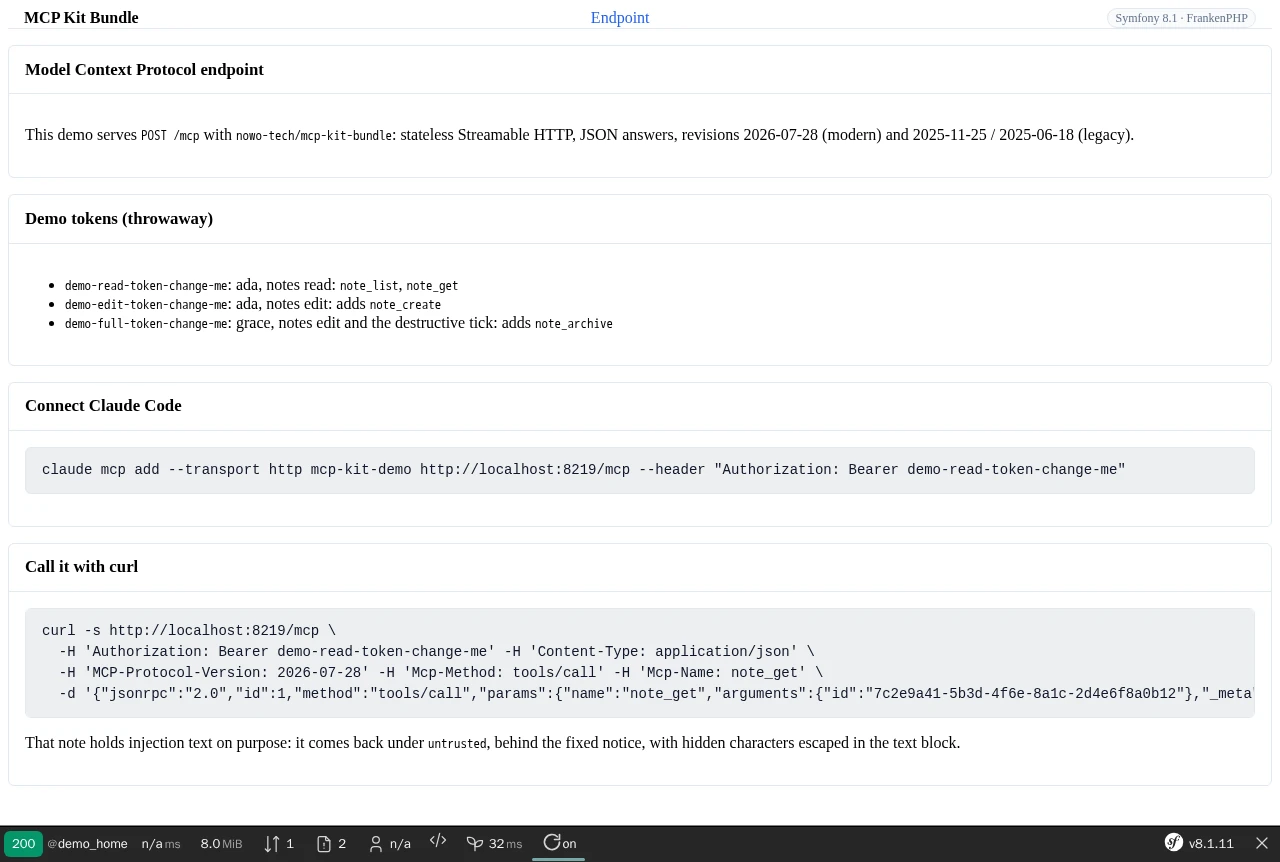
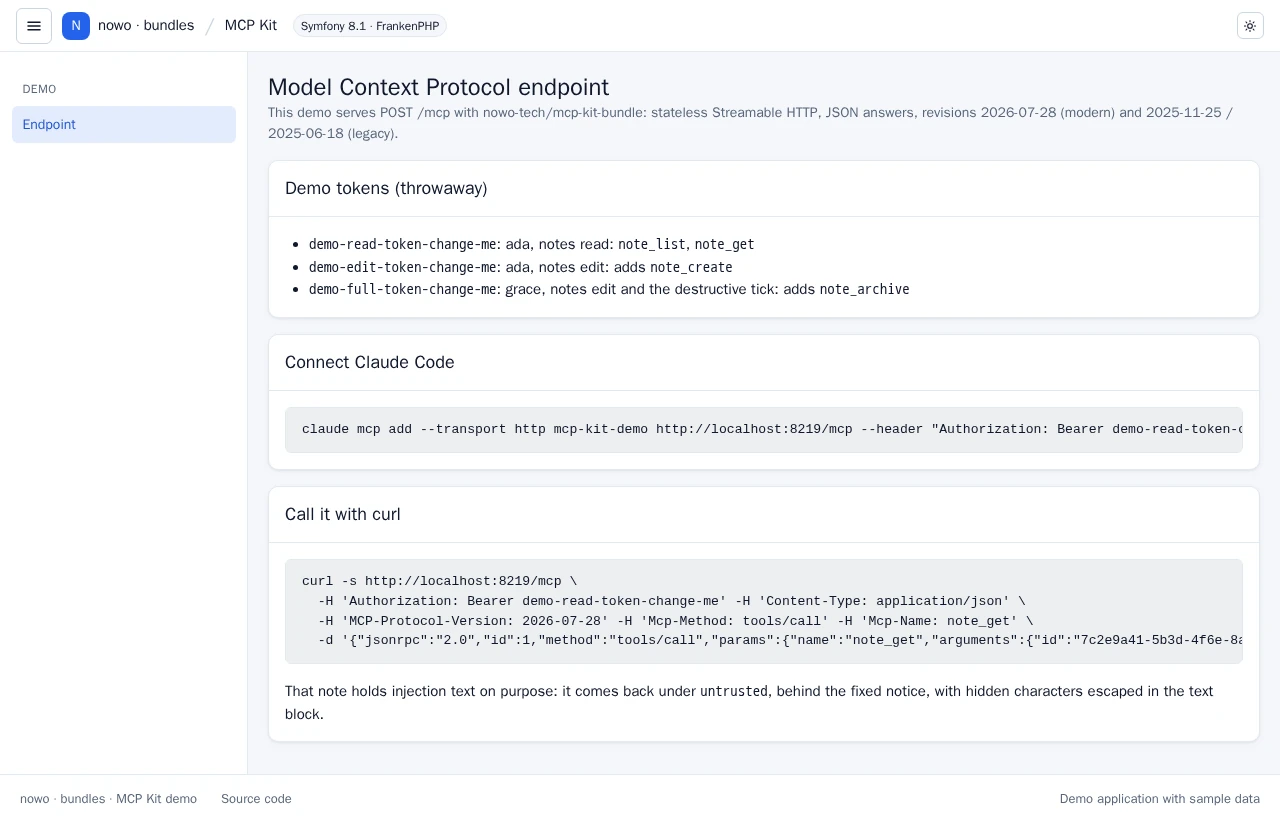
chore(demo): run the demo in UiKit's demo platform shell (#17)

diff --git a/demo/symfony8/e2e/tests/demo-platform.spec.ts b/demo/symfony8/e2e/tests/demo-platform.spec.ts
@@ -1,0 +1,184 @@
+import { test, expect, type Page } from '@playwright/test';
+import AxeBuilder from '@axe-core/playwright';
+
+/**
+ * UiKit demo platform shell (REQ-DEMO-014): layout grammar, demo styles, host theme tokens, framework classes, the
+ * closed phone drawer, 44 px touch targets and input borders on every demo page, plus axe (wcag2a / 2aa / 21a / 21aa,
+ * serious + critical = 0) in light and dark, desktop and phone, and the keyboard drawer pass.
+ */
+type Theme = 'light' | 'dark';
+type PageEntry = string | ((page: Page) => Promise<string>);
+
+async function prepare(_page: Page): Promise<void> {}
+
+async function setTheme(page: Page, theme: Theme): Promise<void> {
+  await page.evaluate((t) => {
+    document.documentElement.setAttribute('data-theme', t);
+    document.documentElement.setAttribute('data-bs-theme', t);
+  }, theme);
+}
+
+async function axe(page: Page): Promise<string[]> {
+  const result = await new AxeBuilder({ page }).withTags(['wcag2a', 'wcag2aa', 'wcag21a', 'wcag21aa']).exclude('.sf-toolbar').analyze();
+  return result.violations
+    .filter((v) => v.impact === 'serious' || v.impact === 'critical')
+    .map((v) => `${v.id}: ${v.nodes.map((n) => n.target.join(' ')).join(', ')}`);
+}
+
+/** The demo layout + style rules (docs/USAGE.md "Demo platform shell"; same function as the rollout brief's spec): layout grammar,
+ * no demo styles / host tokens / framework classes, closed drawer inert, 44 px targets on coarse pointers, input borders 3:1. */
+/* eslint-disable */
+// prettier-ignore
+function demoPlatformRules(): string[] {
+  const issues = [];
+  const main = document.querySelector('#nowo-ui-content');
+  const shell = document.querySelector('[data-testid="demo-platform"]');
+  if (!main || !shell) return ['no-demo-platform-shell'];
+  const visible = (el) => !!(el.offsetWidth || el.offsetHeight || el.getClientRects().length);
+  const carded = (el) => el.closest('.nowo-ui-card, [data-nowo-ui-region="table"], [data-nowo-ui-region="form"], .nowo-ui-form-panel, dialog');
+  const skip = (el) => el.closest('dialog, [data-nowo-ui-region="filters"], .nowo-ui-filters, .nowo-ui-page-header');
+
+  // Layout grammar.
+  main.querySelectorAll('table').forEach((t) => { if (!carded(t)) issues.push('table-outside-card'); });
+  main.querySelectorAll('form').forEach((f) => {
+    if (f.querySelector('input:not([type="hidden"]), select, textarea') && !carded(f) && !skip(f) && !f.closest('table')) issues.push('form-outside-card');
+  });
+  const primaries = [...main.querySelectorAll('.nowo-ui-btn--primary')].filter((b) => visible(b) && !b.closest('table, dialog, [data-nowo-ui-region="filters"], .nowo-ui-filters, form'));
+  if (primaries.length > 1) issues.push(`primary-buttons:${primaries.length}`);
+  const header = main.querySelector('.nowo-ui-page-header');
+  const flashes = main.querySelector('.nowo-ui-flashes');
+  if (header && flashes && (flashes.compareDocumentPosition(header) & Node.DOCUMENT_POSITION_FOLLOWING)) issues.push('flashes-before-page-header');
+  if (document.documentElement.scrollWidth > document.documentElement.clientWidth + 1) issues.push('page-scrolls-horizontally');
+
+  // Styles: no demo styles, no host theme tokens, no CDN / foreign stylesheet, no framework classes inside the shell.
+  document.querySelectorAll('style').forEach((s) => {
+    if (s.matches('[data-nowo-ui-theme-tokens], [data-nowo-ui-appearance]')) { issues.push('host-theme-tokens'); return; }
+    if (!/sf-toolbar|sfwdt|sf-minitoolbar|sf-display/.test(s.textContent || '') && !s.closest('[id^="sfwdt"], .sf-toolbar')) issues.push('style-element');
+  });
+  document.querySelectorAll('link[rel="stylesheet"]').forEach((l) => {
+    const path = new URL(l.href, location.href).pathname;
+    if (!path.startsWith('/bundles/') && !path.startsWith('/_wdt/') && !path.startsWith('/_profiler/')) issues.push(`stylesheet:${path}`);
+  });
+  const framework = /^(acme-.*|nav-tabs|nav-link|nav-item|alert|alert-.*|form-check.*|form-control|form-select|form-label|btn|btn-.*|card|card-.*|badge|row|col|col-.*|table|table-.*)$/;
+  shell.querySelectorAll('[class]').forEach((el) => {
+    for (const c of el.classList) { if (framework.test(c)) { issues.push(`framework-class:${c}`); break; } }
+  });
+
+  // Drawer: below 901 px a closed drawer is inert and the burger says so.
+  const aside = shell.querySelector('[data-nowo-ui-aside]');
+  if (aside && window.innerWidth < 901) {
+    const open = shell.classList.contains('is-aside-open-mobile');
+    if (!open && !aside.hasAttribute('inert')) issues.push('drawer-not-inert');
+    shell.querySelectorAll('[data-nowo-ui-burger]').forEach((b) => {
+      if (visible(b) && b.getAttribute('aria-expanded') !== (open ? 'true' : 'false')) issues.push('burger-state');
+    });
+  }
+
+  // Touch: 44 px targets on coarse pointers (checkbox / radio 24 px, their label carries the 44 px row).
+  if (window.matchMedia('(pointer: coarse)').matches) {
+    const controls = [...shell.querySelectorAll('.nowo-ui-btn, button, summary, input:not([type="hidden"]), select, textarea, [role="tab"], .nowo-ui-aside__link, .nowo-ui-demo-platform__locale')]
+      .filter((el) => visible(el) && !el.closest('[inert], table, .ts-control'));
+    for (const el of controls) {
+      const r = el.getBoundingClientRect();
+      const small = el.matches('input[type="checkbox"], input[type="radio"]') ? r.height < 24 || r.width < 24 : r.height < 43.5;
+      if (small) { issues.push(`target-under-44px:${(el.className && String(el.className).split(' ')[0]) || el.tagName.toLowerCase()}`); }
+    }
+  }
+
+  // Inputs: boundary 3:1 or more against the surface behind them (WCAG 1.4.11).
+  const rgb = (c) => { const m = c.match(/[\d.]+/g); return m ? m.slice(0, 4).map(Number) : null; };
+  const lum = (c) => { const v = c.slice(0, 3).map((x) => { const s = x / 255; return s <= 0.03928 ? s / 12.92 : ((s + 0.055) / 1.055) ** 2.4; }); return 0.2126 * v[0] + 0.7152 * v[1] + 0.0722 * v[2]; };
+  const bgOf = (el) => { for (let n = el.parentElement; n; n = n.parentElement) { const c = rgb(getComputedStyle(n).backgroundColor); if (c && (c.length < 4 || c[3] > 0)) return c; } return [255, 255, 255]; };
+  shell.querySelectorAll('input:not([type="hidden"], [type="checkbox"], [type="radio"]), select, textarea').forEach((el) => {
+    if (!visible(el) || el.closest('[inert]')) return;
+    const border = rgb(getComputedStyle(el).borderTopColor);
+    if (!border) return;
+    const a = lum(border); const b = lum(bgOf(el));
+    if ((Math.max(a, b) + 0.05) / (Math.min(a, b) + 0.05) < 3) issues.push(`input-border-under-3:1:${el.id || el.name || el.tagName.toLowerCase()}`);
+  });
+
+  return [...new Set(issues)];
+}
+
+
+const PAGES: PageEntry[] = ["/"];
+
+const BUNDLE_OWNED: Array<{ path: RegExp; rule: RegExp }> = [];
+
+/** Findings on a bundle's own page are reported as bundle-owned (not patched in the demo): they are filtered here, by path and rule. */
+function demo(url: string, issues: string[]): string[] {
+  const path = new URL(url).pathname;
+  return issues.filter((issue) => !BUNDLE_OWNED.some((o) => o.path.test(path) && o.rule.test(issue)));
+}
+
+async function resolvePath(page: Page, entry: PageEntry): Promise<string> {
+  return typeof entry === 'function' ? entry(page) : entry;
+}
+
+test.describe('demo platform rules', () => {
+  // Device-emulating projects (phone / iphone ...) set their own context: the viewport blocks below do it explicitly.
+  test.beforeEach(async ({ page }, testInfo) => {
+    test.skip(/phone/i.test(testInfo.project.name), 'viewport blocks set their own context');
+    // The Symfony toolbar is dev chrome, never part of the rules or axe runs.
+    await page.addInitScript(() => {
+      document.addEventListener('DOMContentLoaded', () => {
+        const s = document.createElement('style');
+        s.textContent = '.sf-toolbar,.sf-minitoolbar,[id^="sfwdt"]{display:none!important}';
+        document.head.appendChild(s);
+      });
+    });
+  });
+
+  test('desktop 1440 px', async ({ page }) => {
+    await page.setViewportSize({ width: 1440, height: 900 });
+    await prepare(page);
+    for (const path of PAGES) {
+      await page.goto(await resolvePath(page, path));
+      expect(demo(page.url(), await page.evaluate(demoPlatformRules)), page.url()).toEqual([]);
+    }
+  });
+
+  test.describe('phone 390 px, touch', () => {
+    test.use({ viewport: { width: 390, height: 844 }, isMobile: true, hasTouch: true });
+
+    test('rules on every page', async ({ page }) => {
+      await prepare(page);
+      for (const path of PAGES) {
+        await page.goto(await resolvePath(page, path));
+        expect(demo(page.url(), await page.evaluate(demoPlatformRules)), page.url()).toEqual([]);
+      }
+    });
+
+    test('keyboard drawer pass', async ({ page }) => {
+      await prepare(page);
+      await page.goto(await resolvePath(page, PAGES[0]));
+      const aside = page.locator('[data-nowo-ui-aside]');
+      await expect(aside).toHaveAttribute('inert', '');
+      const burger = page.locator('[data-nowo-ui-burger]').first();
+      await expect(burger).toHaveAttribute('aria-expanded', 'false');
+      await burger.focus();
+      await page.keyboard.press('Enter');
+      await expect(page.getByTestId('demo-platform')).toHaveClass(/is-aside-open-mobile/);
+      await expect(page.locator('[data-nowo-ui-aside] :focus')).toHaveCount(1);
+      await expect(page.locator('.nowo-ui-main')).toHaveAttribute('inert', '');
+      await expect(page.locator('html')).toHaveClass(/nowo-ui-drawer-open/);
+      await page.keyboard.press('Escape');
+      await expect(burger).toBeFocused();
+      await expect(aside).toHaveAttribute('inert', '');
+    });
+  });
+
+  for (const theme of ['light', 'dark'] as Theme[]) {
+    for (const [name, width] of [['desktop', 1440], ['phone', 390]] as const) {
+      test(`axe clean: ${name}, ${theme}`, async ({ page }) => {
+        await page.setViewportSize({ width, height: 900 });
+        await prepare(page);
+        for (const path of PAGES) {
+          await page.goto(await resolvePath(page, path));
+          await setTheme(page, theme);
+          expect(demo(page.url(), await axe(page)), page.url()).toEqual([]);
+        }
+      });
+    }
+  }
+});

diff --git a/demo/symfony8/e2e/tests/screenshots.spec.ts b/demo/symfony8/e2e/tests/screenshots.spec.ts
@@ -3,7 +3,7 @@ import { mkdirSync } from 'node:fs';
 import { resolve } from 'node:path';
 
 /**
- * REQ-DEMO-013 — full demo frame: UiKit masthead + McpKit UI + Symfony WebProfiler toolbar.
+ * REQ-DEMO-013 — the demo platform shell with the McpKit page (no Symfony toolbar).
  * Playwright clips to the viewport, so the viewport is enlarged before capture.
  */
 const outDir = process.env.SCREENSHOT_DIR
@@ -22,13 +22,12 @@ async function boxOf(page: Page, selector: string): Promise<Box | null> {
 }
 
 async function clipDemoFrame(page: Page): Promise<Box> {
-  const masthead = await boxOf(page, '[data-testid="demo-masthead"]');
+  const masthead = await boxOf(page, '[data-testid="demo-platform"]');
   const main = await boxOf(page, 'main');
-  const profiler = (await boxOf(page, '.sf-toolbar')) ?? (await boxOf(page, '.sf-minitoolbar'));
   if (!masthead || !main) {
-    throw new Error('Missing demo masthead or main for the McpKit screenshot clip');
+    throw new Error('Missing demo platform shell or main for the McpKit screenshot clip');
   }
-  const boxes = [masthead, main, profiler].filter(Boolean) as Box[];
+  const boxes = [masthead, main].filter(Boolean) as Box[];
   const x = Math.min(...boxes.map((b) => b.x));
   const y = Math.min(...boxes.map((b) => b.y));
   const right = Math.max(...boxes.map((b) => b.x + b.width));
@@ -42,22 +41,18 @@ async function clipDemoFrame(page: Page): Promise<Box> {
   };
 }
 
-async function waitProfiler(page: Page) {
-  await page
-    .locator('.sf-toolbar .sf-toolbar-block, .sf-toolbar-status, .sf-minitoolbar')
-    .first()
-    .waitFor({ state: 'visible', timeout: 10000 })
-    .catch(() => {});
+/** The Symfony toolbar is not part of the demo platform: README screenshots never show it. */
+async function hideToolbar(page: Page) {
+  await page.addStyleTag({ content: '.sf-toolbar,.sf-minitoolbar,[id^="sfwdt"]{display:none!important}' });
 }
 
 async function capture(page: Page, file: string) {
   await page.waitForLoadState('networkidle', { timeout: 20000 }).catch(() => {});
   await page.evaluate(() => document.fonts.ready).catch(() => {});
-  await waitProfiler(page);
+  await hideToolbar(page);
   await page.setViewportSize({ width: 1280, height: 720 });
   const height = await page.evaluate(() => document.documentElement.scrollHeight);
   await page.setViewportSize({ width: 1280, height: Math.min(Math.max(height, 720), 1800) });
-  await waitProfiler(page);
   await page.screenshot({ path: resolve(outDir, file), clip: await clipDemoFrame(page) });
 }
 
@@ -69,7 +64,7 @@ test.describe('McpKit screenshots (full demo context)', () => {
   test('endpoint — client setup page with tokens and curl example', async ({ page }) => {
     await page.setViewportSize({ width: 1280, height: 1000 });
     await page.goto('/');
-    await expect(page.getByTestId('demo-masthead')).toBeVisible();
+    await expect(page.getByTestId('demo-platform')).toBeVisible();
     await expect(page.getByRole('heading', { name: 'Model Context Protocol endpoint' })).toBeVisible();
     await capture(page, 'endpoint.png');
   });

diff --git a/demo/symfony8/e2e/tests/demo.spec.ts b/demo/symfony8/e2e/tests/demo.spec.ts
@@ -7,7 +7,7 @@ test.describe('McpKit demo', () => {
     page.on('console', (m) => m.type() === 'error' && errors.push(m.text()));
     const response = await page.goto('/');
     expect(response?.status()).toBe(200);
-    await expect(page.getByTestId('demo-masthead')).toBeVisible();
+    await expect(page.getByTestId('demo-platform')).toBeVisible();
     await expect(page.getByRole('heading', { name: 'Demo tokens (throwaway)' })).toBeVisible();
     await expect(page.locator('code', { hasText: 'demo-read-token-change-me' }).first()).toBeVisible();
     expect(errors).toEqual([]);

diff --git a/docs/CHANGELOG.md b/docs/CHANGELOG.md
@@ -7,6 +7,7 @@ All notable changes to this project are documented here. The format follows
 
 ### Changed
 
+- Demo: runs in UiKit's demo platform shell (`nowo-tech/ui-kit-bundle` ^2.60); the demo's own header is gone and the pages use the shell page headers and section cards. Demo only, no bundle change.
 - CI: new `deps-floor` job (as in BreadcrumbKit). It checks that the demo lock installs every nowo-tech requirement of the bundle (`.scripts/check-demo-lock.py`), then downgrades nowo-tech/transaction-* to the lowest versions composer.json allows (`composer update 'nowo-tech/transaction-*' --prefer-lowest`) and runs PHPStan and the tests there, so a call to a newer API than the constraint allows fails the pull request.
 - Demo: `make update-bundle` runs `composer update nowo-tech/mcp-kit-bundle -w`, so the bundle's new or raised requirements reach the demo lock too.
 - Requires `nowo-tech/transaction-doctrine` ^1.8.1 (fixes GHSA-9wh3-m3m5-jffx and GHSA-65w2-9r4h-848g).

diff --git a/docs/CONTRIBUTING.md b/docs/CONTRIBUTING.md
@@ -44,7 +44,7 @@ make demo-smoke            # boot, HTTP 200, down
 make -C demo down-symfony8
 ```
 
-Screenshots must show the demo masthead, the bundle output and the Symfony web debug toolbar (REQ-DEMO-013).
+Screenshots must show the demo platform shell and the bundle output, without the Symfony web debug toolbar (REQ-DEMO-013, REQ-DEMO-014).
 
 ## Cursor Agent
 
